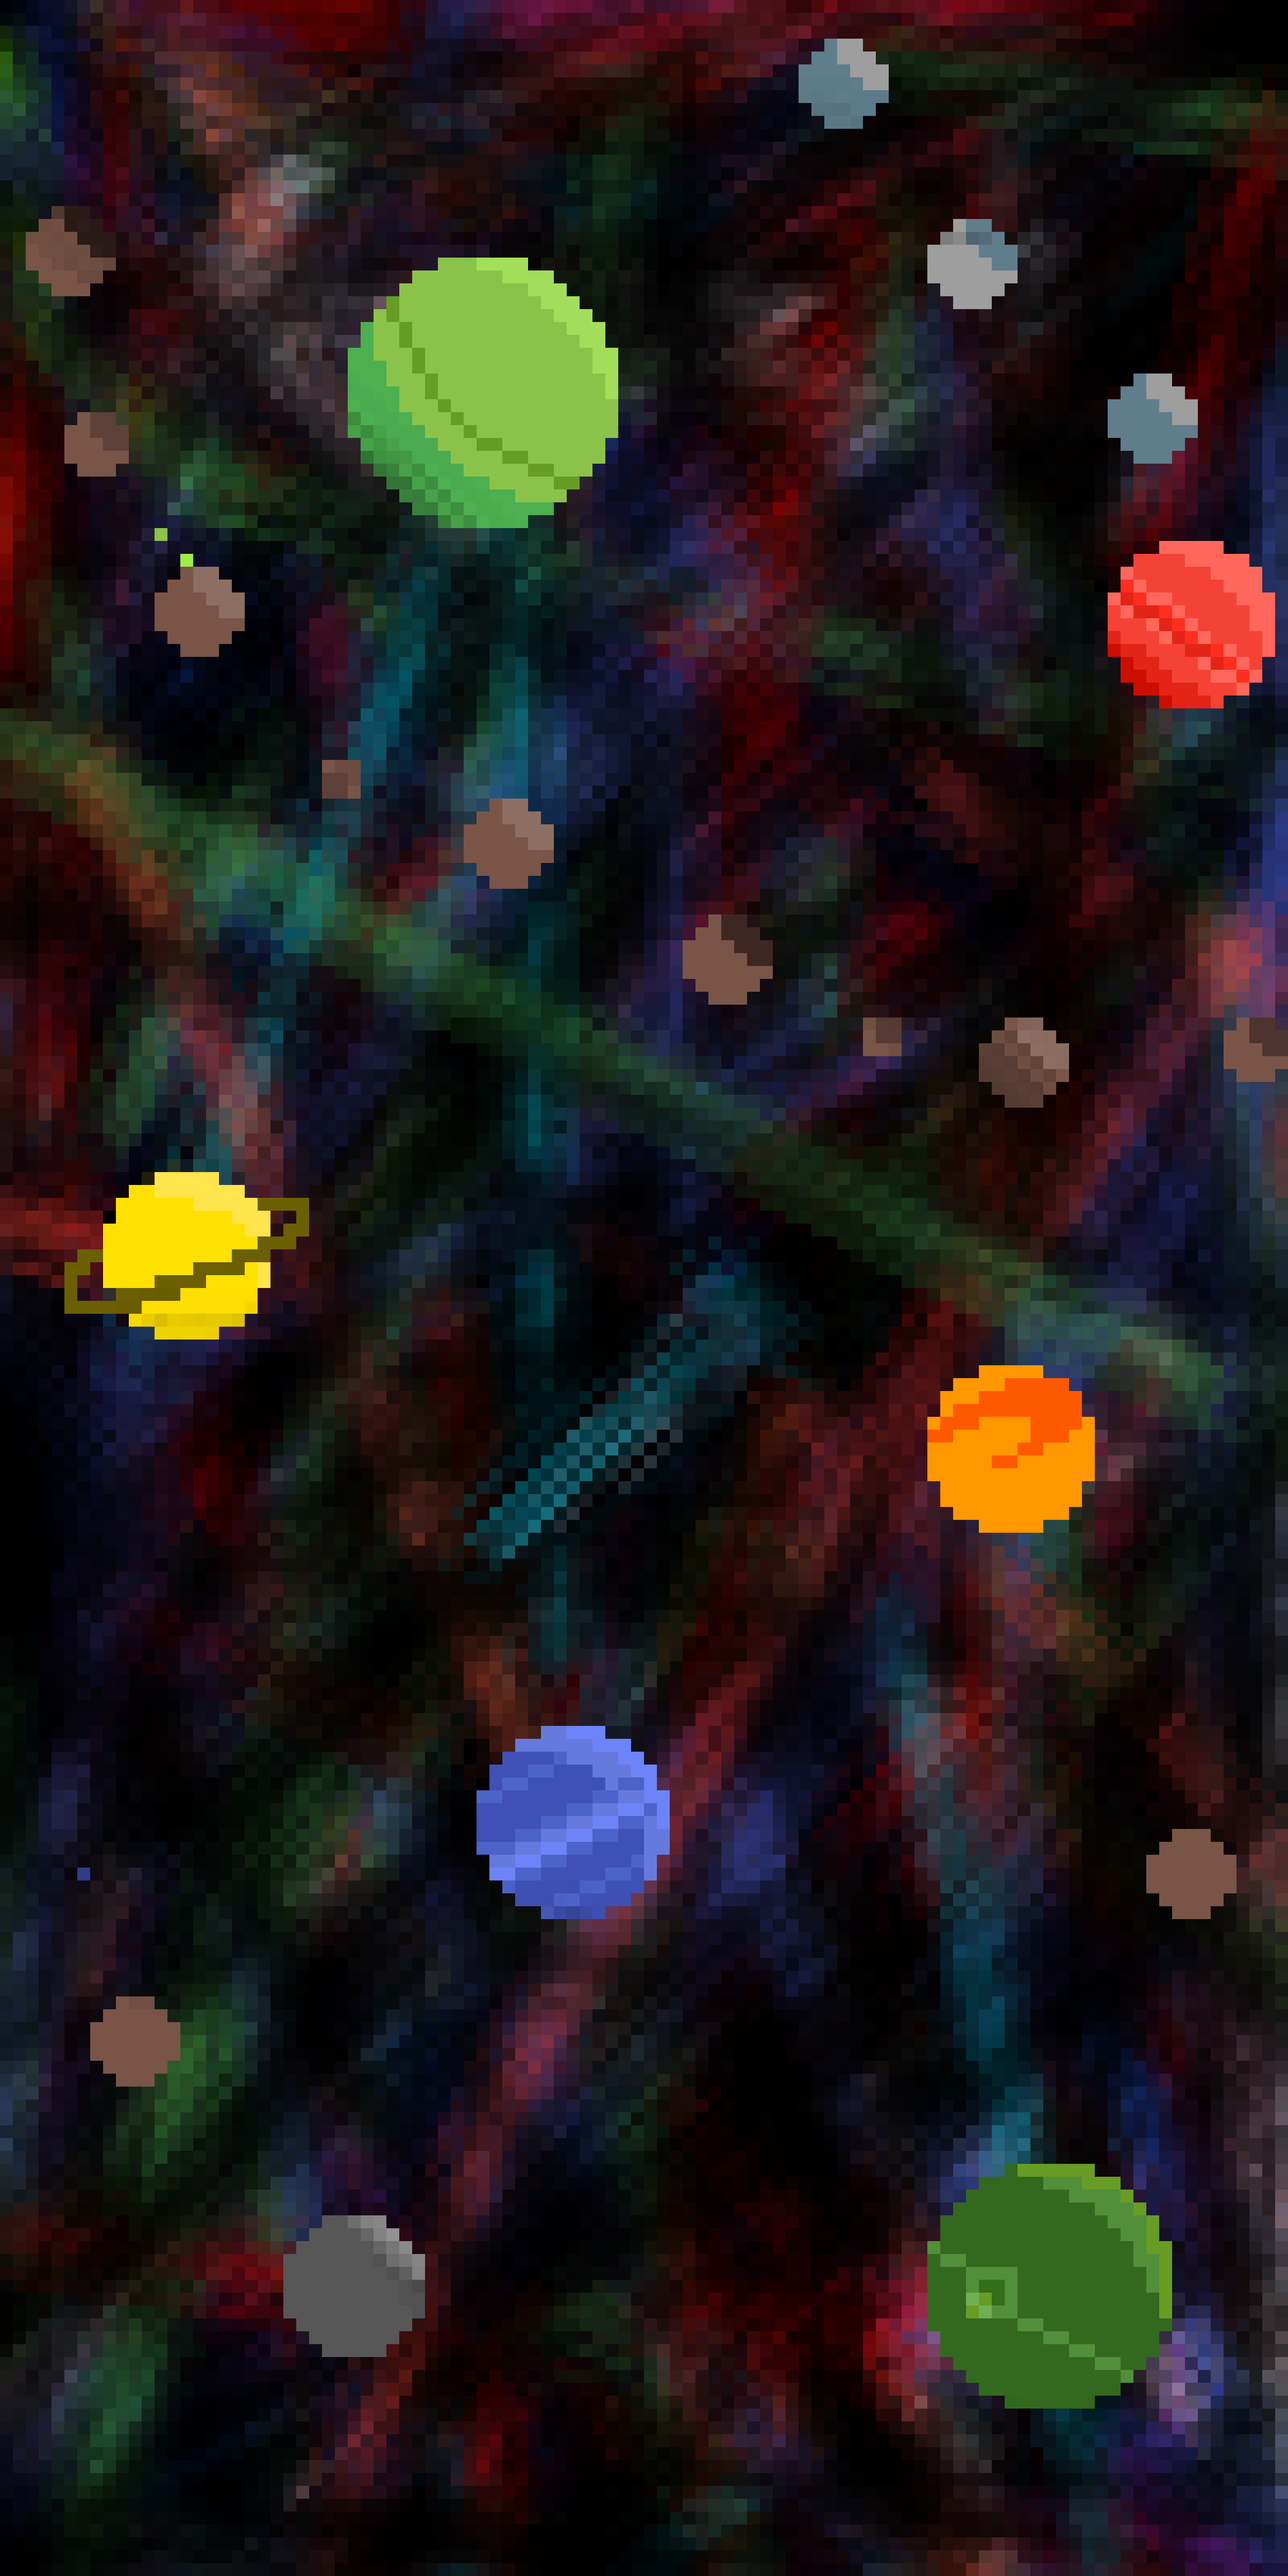
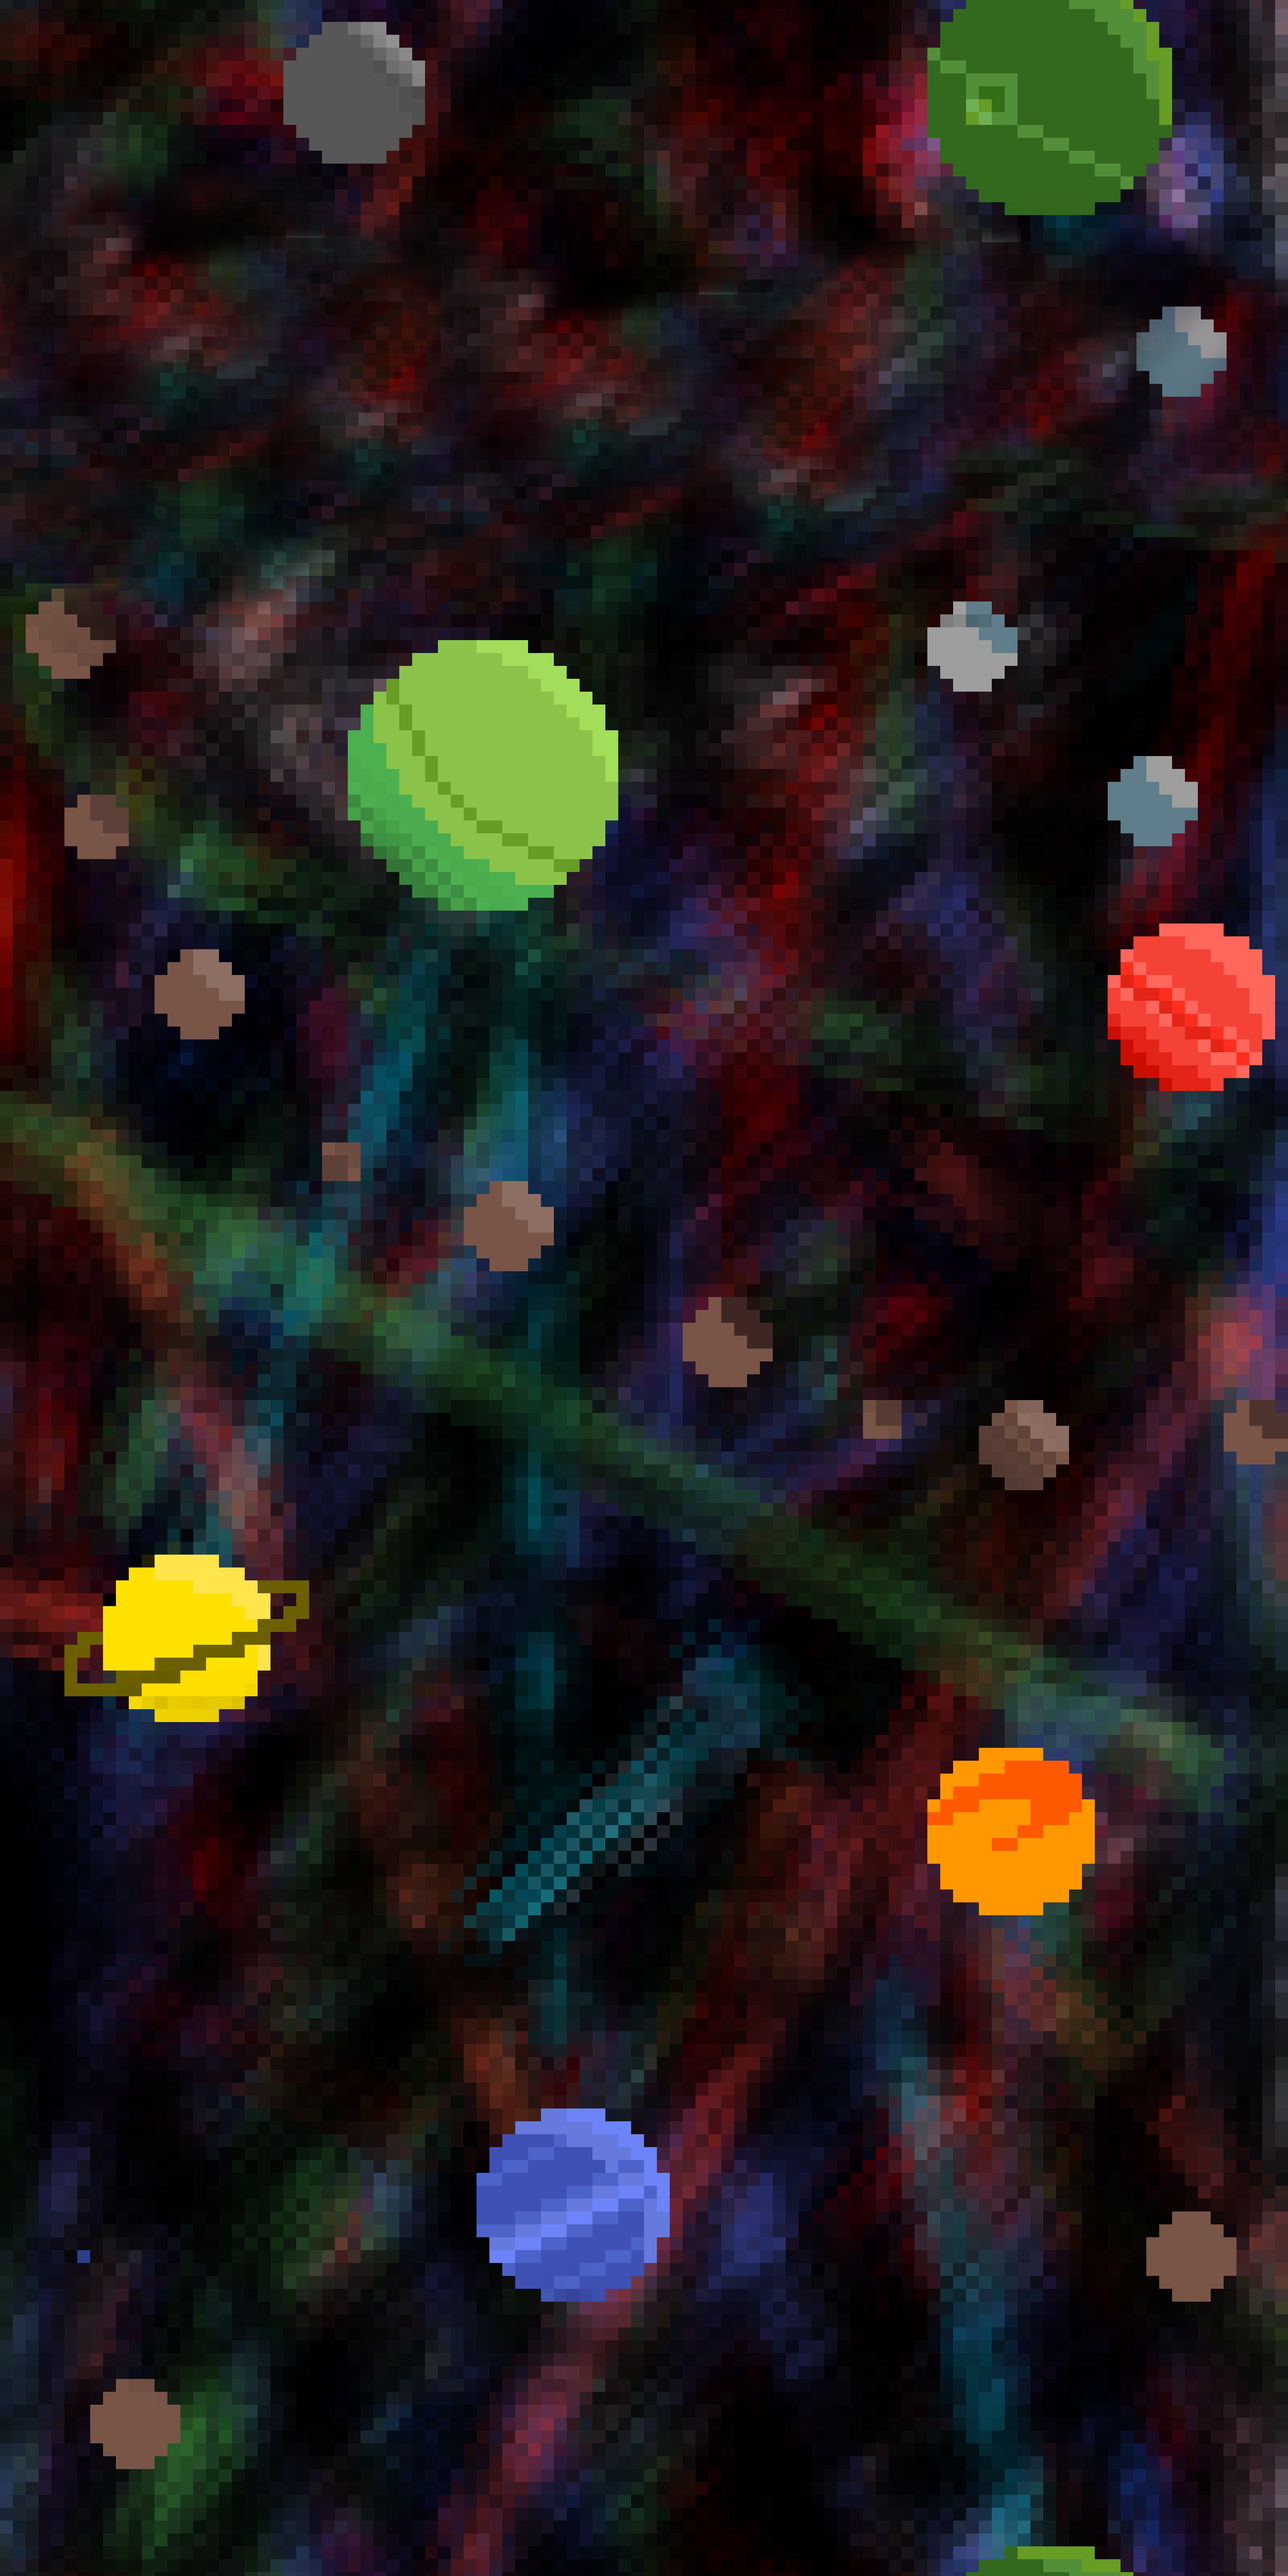
Added Paralax

diff --git a/BlankspaceGame/BlankspaceGame/ManagerClasses/ParalaxManager.cs b/BlankspaceGame/BlankspaceGame/ManagerClasses/ParalaxManager.cs
@@ -1,0 +1,51 @@
+using System;
+using System.Collections.Generic;
+using System.Linq;
+using System.Text;
+using System.Threading.Tasks;
+
+using Microsoft.Xna.Framework;
+using Microsoft.Xna.Framework.Graphics;
+using Microsoft.Xna.Framework.Media;
+
+namespace BlankspaceGame
+{
+    static class ParalaxManager
+    {
+        private static Texture2D bGround;
+
+        private static Rectangle p1;
+        private static Rectangle p2;
+
+        public static void Initialize ()
+        {
+            p1 = new Rectangle(0, 0, 600, 1250);
+            p2 = new Rectangle(0, -1250, 600, 1250);
+        }
+
+        public static void SetTexture(Texture2D background)
+        {
+            bGround = background;
+        }
+
+        public static void Update(SpriteBatch sb)
+        {
+            if (p1.Y >= 900)
+                p1.Y = -1250 - 350;
+            if (p2.Y >= 900)
+                p2.Y = -1250 - 350;
+
+            p1.Y++;
+            p2.Y++;
+
+            Draw(sb);
+        }
+
+        private static void Draw(SpriteBatch sb)
+        {
+            // Draw the background
+            sb.Draw(bGround, p1, Color.White);
+            sb.Draw(bGround, p2, Color.White);
+        }
+    }
+}

diff --git a/BlankspaceGame/BlankspaceGame/Game1.cs b/BlankspaceGame/BlankspaceGame/Game1.cs
@@ -87,6 +87,7 @@ namespace BlankspaceGame
             ProjectileManager.Initialize();
             WaveManager.Initialize();
             PickupManager.Intialize();
+            ParalaxManager.Initialize();
 
             backLoc = new Rectangle(0, 0, 600, 1250);
 
@@ -125,6 +126,8 @@ namespace BlankspaceGame
             pause = Content.Load<Texture2D>("Menus/PauseMenu");
             win = Content.Load<Texture2D>("Menus/Win");
             lose = Content.Load<Texture2D>("Menus/Lose");
+
+            ParalaxManager.SetTexture(BackDrop);
         }
 
         /// <summary>
@@ -324,7 +327,7 @@ namespace BlankspaceGame
                     }
                 case GameState.Game:
                     {
-                        spriteBatch.Draw(BackDrop, backLoc, Color.White);
+                        ParalaxManager.Update(spriteBatch);
                         ProjectileManager.DrawProjectiles(spriteBatch);
                         EnemyManager.DrawEnemies(spriteBatch);
                         PlayerManager.DrawPlayer(spriteBatch);
